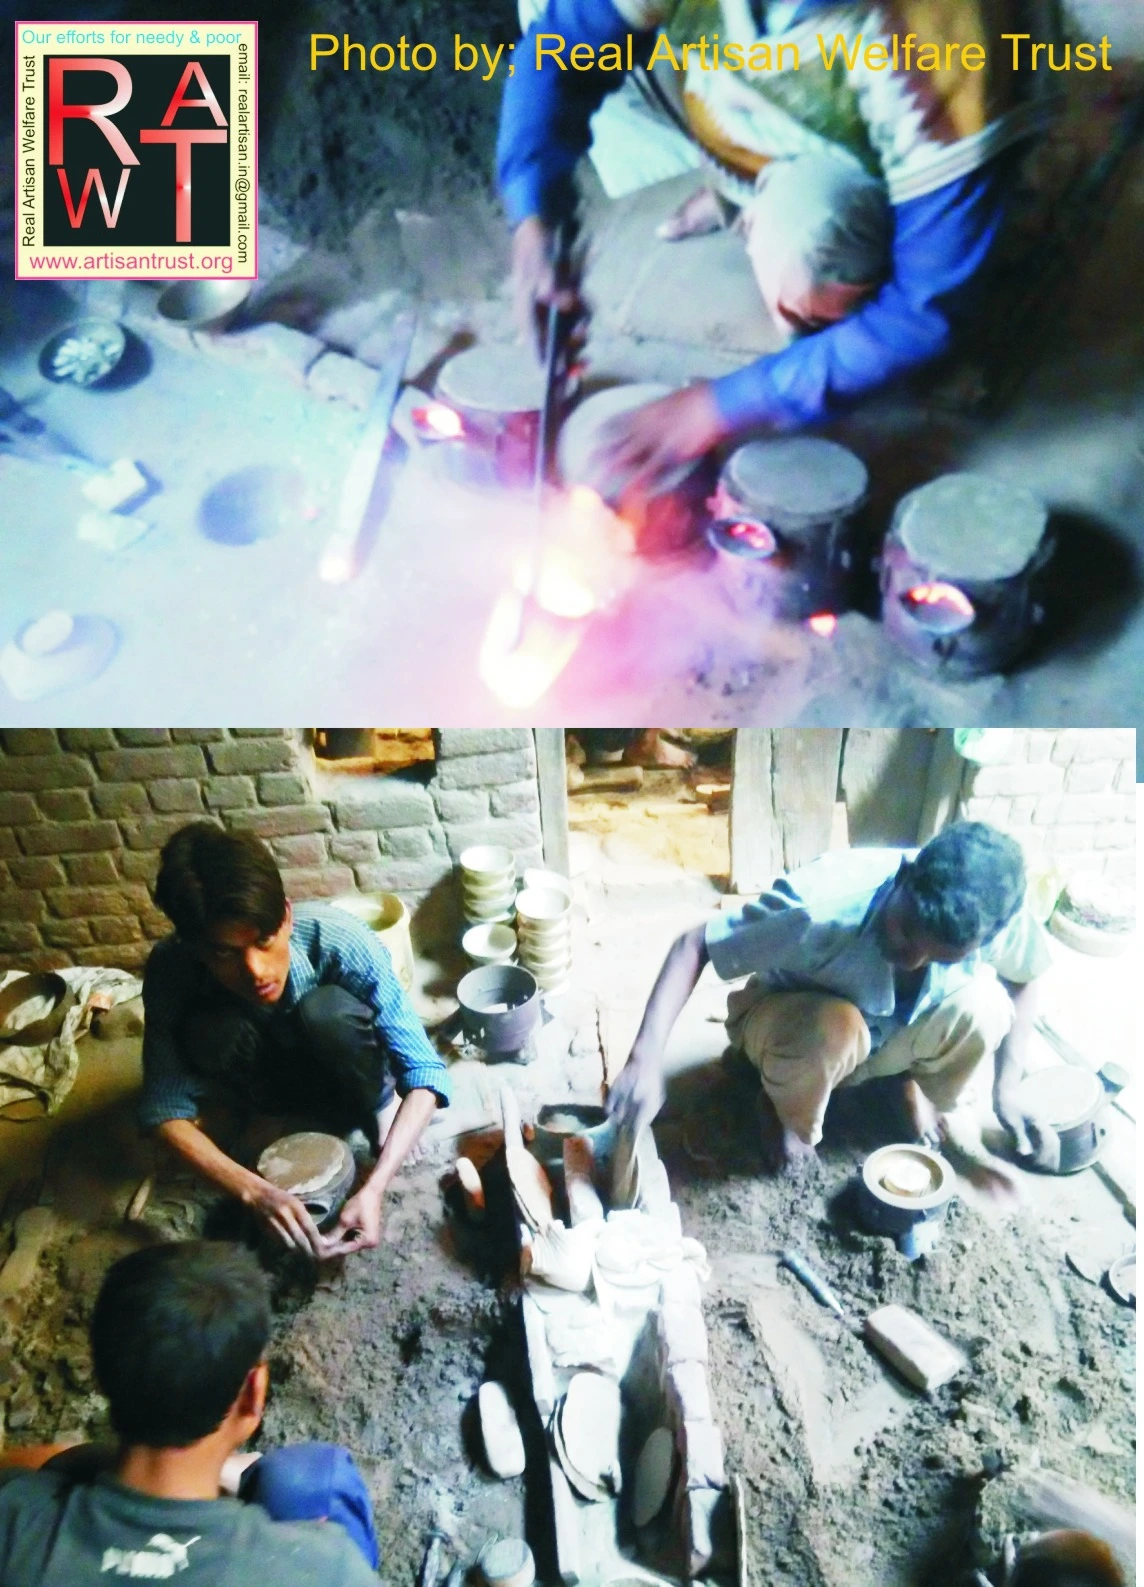
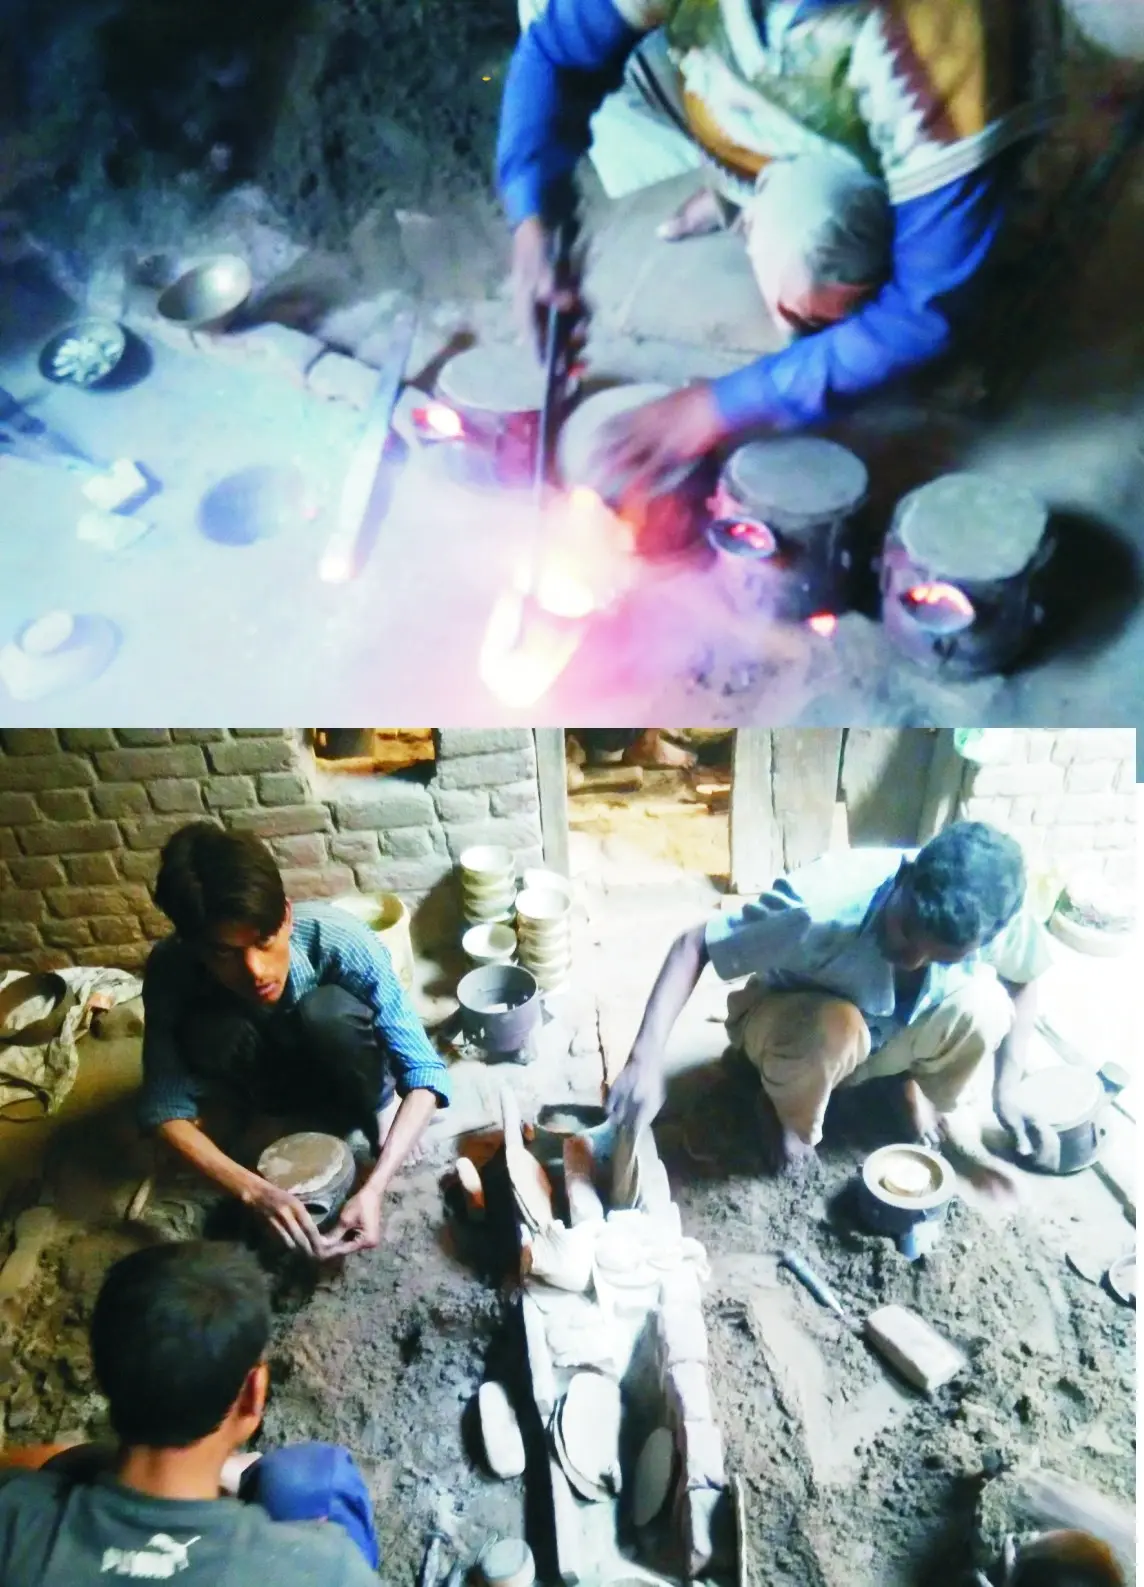
ZSE-103-in progress

Changed region(s): [[0.0, 0.0, 0.2448, 0.1853], [0.2753, 0.0, 0.979, 0.0618]]

diff --git a/zsexport_website/src/components/ProductCard.jsx b/zsexport_website/src/components/ProductCard.jsx
@@ -26,16 +26,26 @@ export default function ProductCard({ product, href }) {
   return (
     <Tag
       {...(href ? { href } : {})}
-      onClick={openViewer}
-      className="group block cursor-zoom-in h-full bg-surface-container-lowest shadow-sm hover:shadow-xl hover:-translate-y-1.5 transition-all duration-300"
+      {...(href ? {} : { onClick: openViewer })}
+      className={`group block ${href ? 'cursor-pointer' : 'cursor-zoom-in'} h-full bg-surface-container-lowest shadow-sm hover:shadow-xl hover:-translate-y-1.5 transition-all duration-300`}
     >
-      <div className="aspect-[3/3] overflow-hidden bg-surface-container">
+      <div className="relative aspect-[3/3] overflow-hidden bg-surface-container">
         <img
           className="w-full h-full object-cover group-hover:scale-105 transition-transform duration-700"
           alt={product.alt}
           src={product.image}
           loading="lazy"
         />
+        <span
+          aria-hidden="true"
+          className="pointer-events-none absolute inset-0 flex items-center justify-center"
+        >
+          <span className="w-14 h-14 flex items-center justify-center rounded-full bg-black/45 text-white backdrop-blur-sm shadow-lg ring-1 ring-white/40 group-hover:bg-black/65 group-hover:scale-110 transition-all duration-300">
+            <span className="material-symbols-outlined text-[28px]">
+              {href ? 'visibility' : 'zoom_in'}
+            </span>
+          </span>
+        </span>
       </div>
       <div className="p-space-lg">
         <span className="font-label-caps text-label-caps uppercase tracking-widest text-secondary block mb-space-2xs">

diff --git a/zsexport_website/index.html b/zsexport_website/index.html
@@ -2,7 +2,7 @@
 <html lang="en">
   <head>
     <meta charset="UTF-8" />
-    <link rel="icon" type="image/webp" href="/website_logo.webp" />
+    <link rel="icon" type="image/webp" href="/tab_website_logo.webp" />
     <meta name="viewport" content="width=device-width, initial-scale=1.0" />
     <meta
       name="description"
